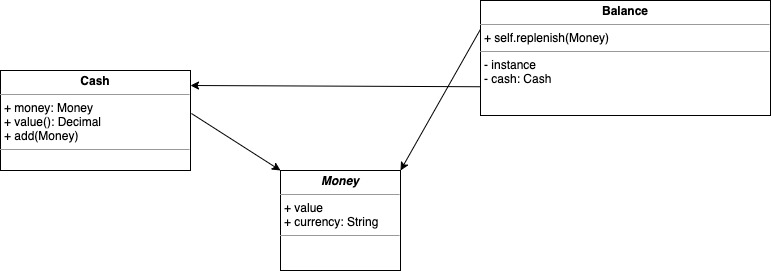
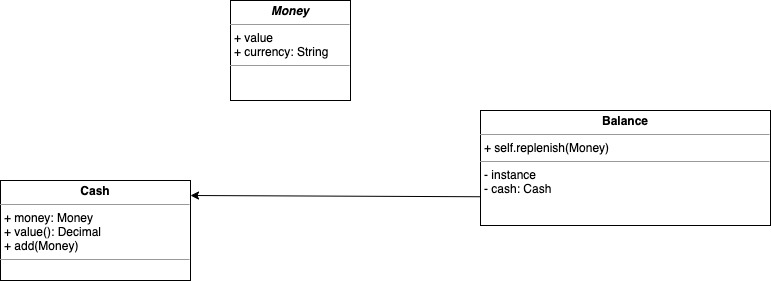
Adjust UML diagrams + samples how to use different flows

diff --git a/examples/investments subdomain/open_new_investment.rb b/examples/investments subdomain/open_new_investment.rb
@@ -1,16 +1,38 @@
 class Money
-  attr_reader :value, :currency
-  def initialize(value:, currency:)
+  attr_accessor :value
+  attr_reader :currency
+  
+  def initialize(value:, currency: "USD")
     @value = value
     @currency = currency
   end
 end
 
+class Cash
+  attr_reader :money
+  def initialize(money=nil)
+    @money = money || Money.new(value: 0)
+  end
+
+  def value
+    money.value
+  end
+
+  def add(money)
+    @money = Money.new(value: @money.value + money.value, currency: @money.currency)
+  end
+
+  def remove(money)
+    @money = Money.new(value: @money.value - money.value, currency: @money.currency)
+  end
+end
+
 class Investment
-  attr_reader :name, :initial_price
-  def initialize(name:, initial_price:)
+  attr_reader :name, :initial_price, :price
+  def initialize(name:, initial_price:, price: nil)
     @name = name
     @initial_price = initial_price
+    @price = price || initial_price
   end
 end
 
@@ -20,8 +42,13 @@ end
 class StockInvestment < Investment
 end
 
+
 class Balance
   class << self
+    def replenish(money)
+      instance.replenish(money)
+    end
+
     def open_investment(investment)
       instance.open_investment(investment)
     end
@@ -30,27 +57,41 @@ class Balance
       @instance
     end
   end
-
-  attr_reader :assets
-  def initialize(assets:)
-    @assets = []
+  
+  attr_reader :cash, :investments
+  def initialize(cash:, investments: [])
+    @cash = cash
+    @investments = investments
   end
 
-  @instance = new(assets: [])
+  @instance = new(cash: Cash.new)
+  private_class_method :new
 
-  def open_investment(investment)
-    assets.push(investment)
-    puts "name - #{investment.name}; initial price value - #{investment.initial_price.value}; initial price currency - #{investment.initial_price.currency}"
-    puts "assets.count - #{assets.count}"
+  def replenish(money)
+    cash.add(money)
+    puts "cash value - #{cash.value}"
     # do some logic
   end
+
+  def open_investment(investment)
+    cash.remove(investment.price)
+    investments.push(investment)
+    puts "name - #{investment.name}; initial price value - #{investment.initial_price.value}; initial price currency - #{investment.initial_price.currency}"
+    puts "investments.count - #{investments.count}"
+    puts "cash value - #{cash.value}"
+    # do some logic
+  end  
 end
 
-money = Money.new(value: 100, currency: "EUR")
+
+money = Money.new(value: 10000)
+balance = Balance.replenish(money)
+
+money = Money.new(value: 100)
 investment = AppartmentInvestment.new(name: "Rental", initial_price: money)
 Balance.open_investment(investment)
 
-money = Money.new(value: 2000, currency: "USD")
+money = Money.new(value: 2000)
 investment = AppartmentInvestment.new(name: "GOOG", initial_price: money)
 Balance.open_investment(investment)
 

diff --git a/examples/investments subdomain/replenish_the_balance.rb b/examples/investments subdomain/replenish_the_balance.rb
@@ -19,7 +19,7 @@ class Cash
   end
 
   def add(money)
-    @money = Money.new(@money.value += money.value, currency: @money.currency)
+    @money = Money.new(value: @money.value + money.value, currency: @money.currency)
   end
 end
 
